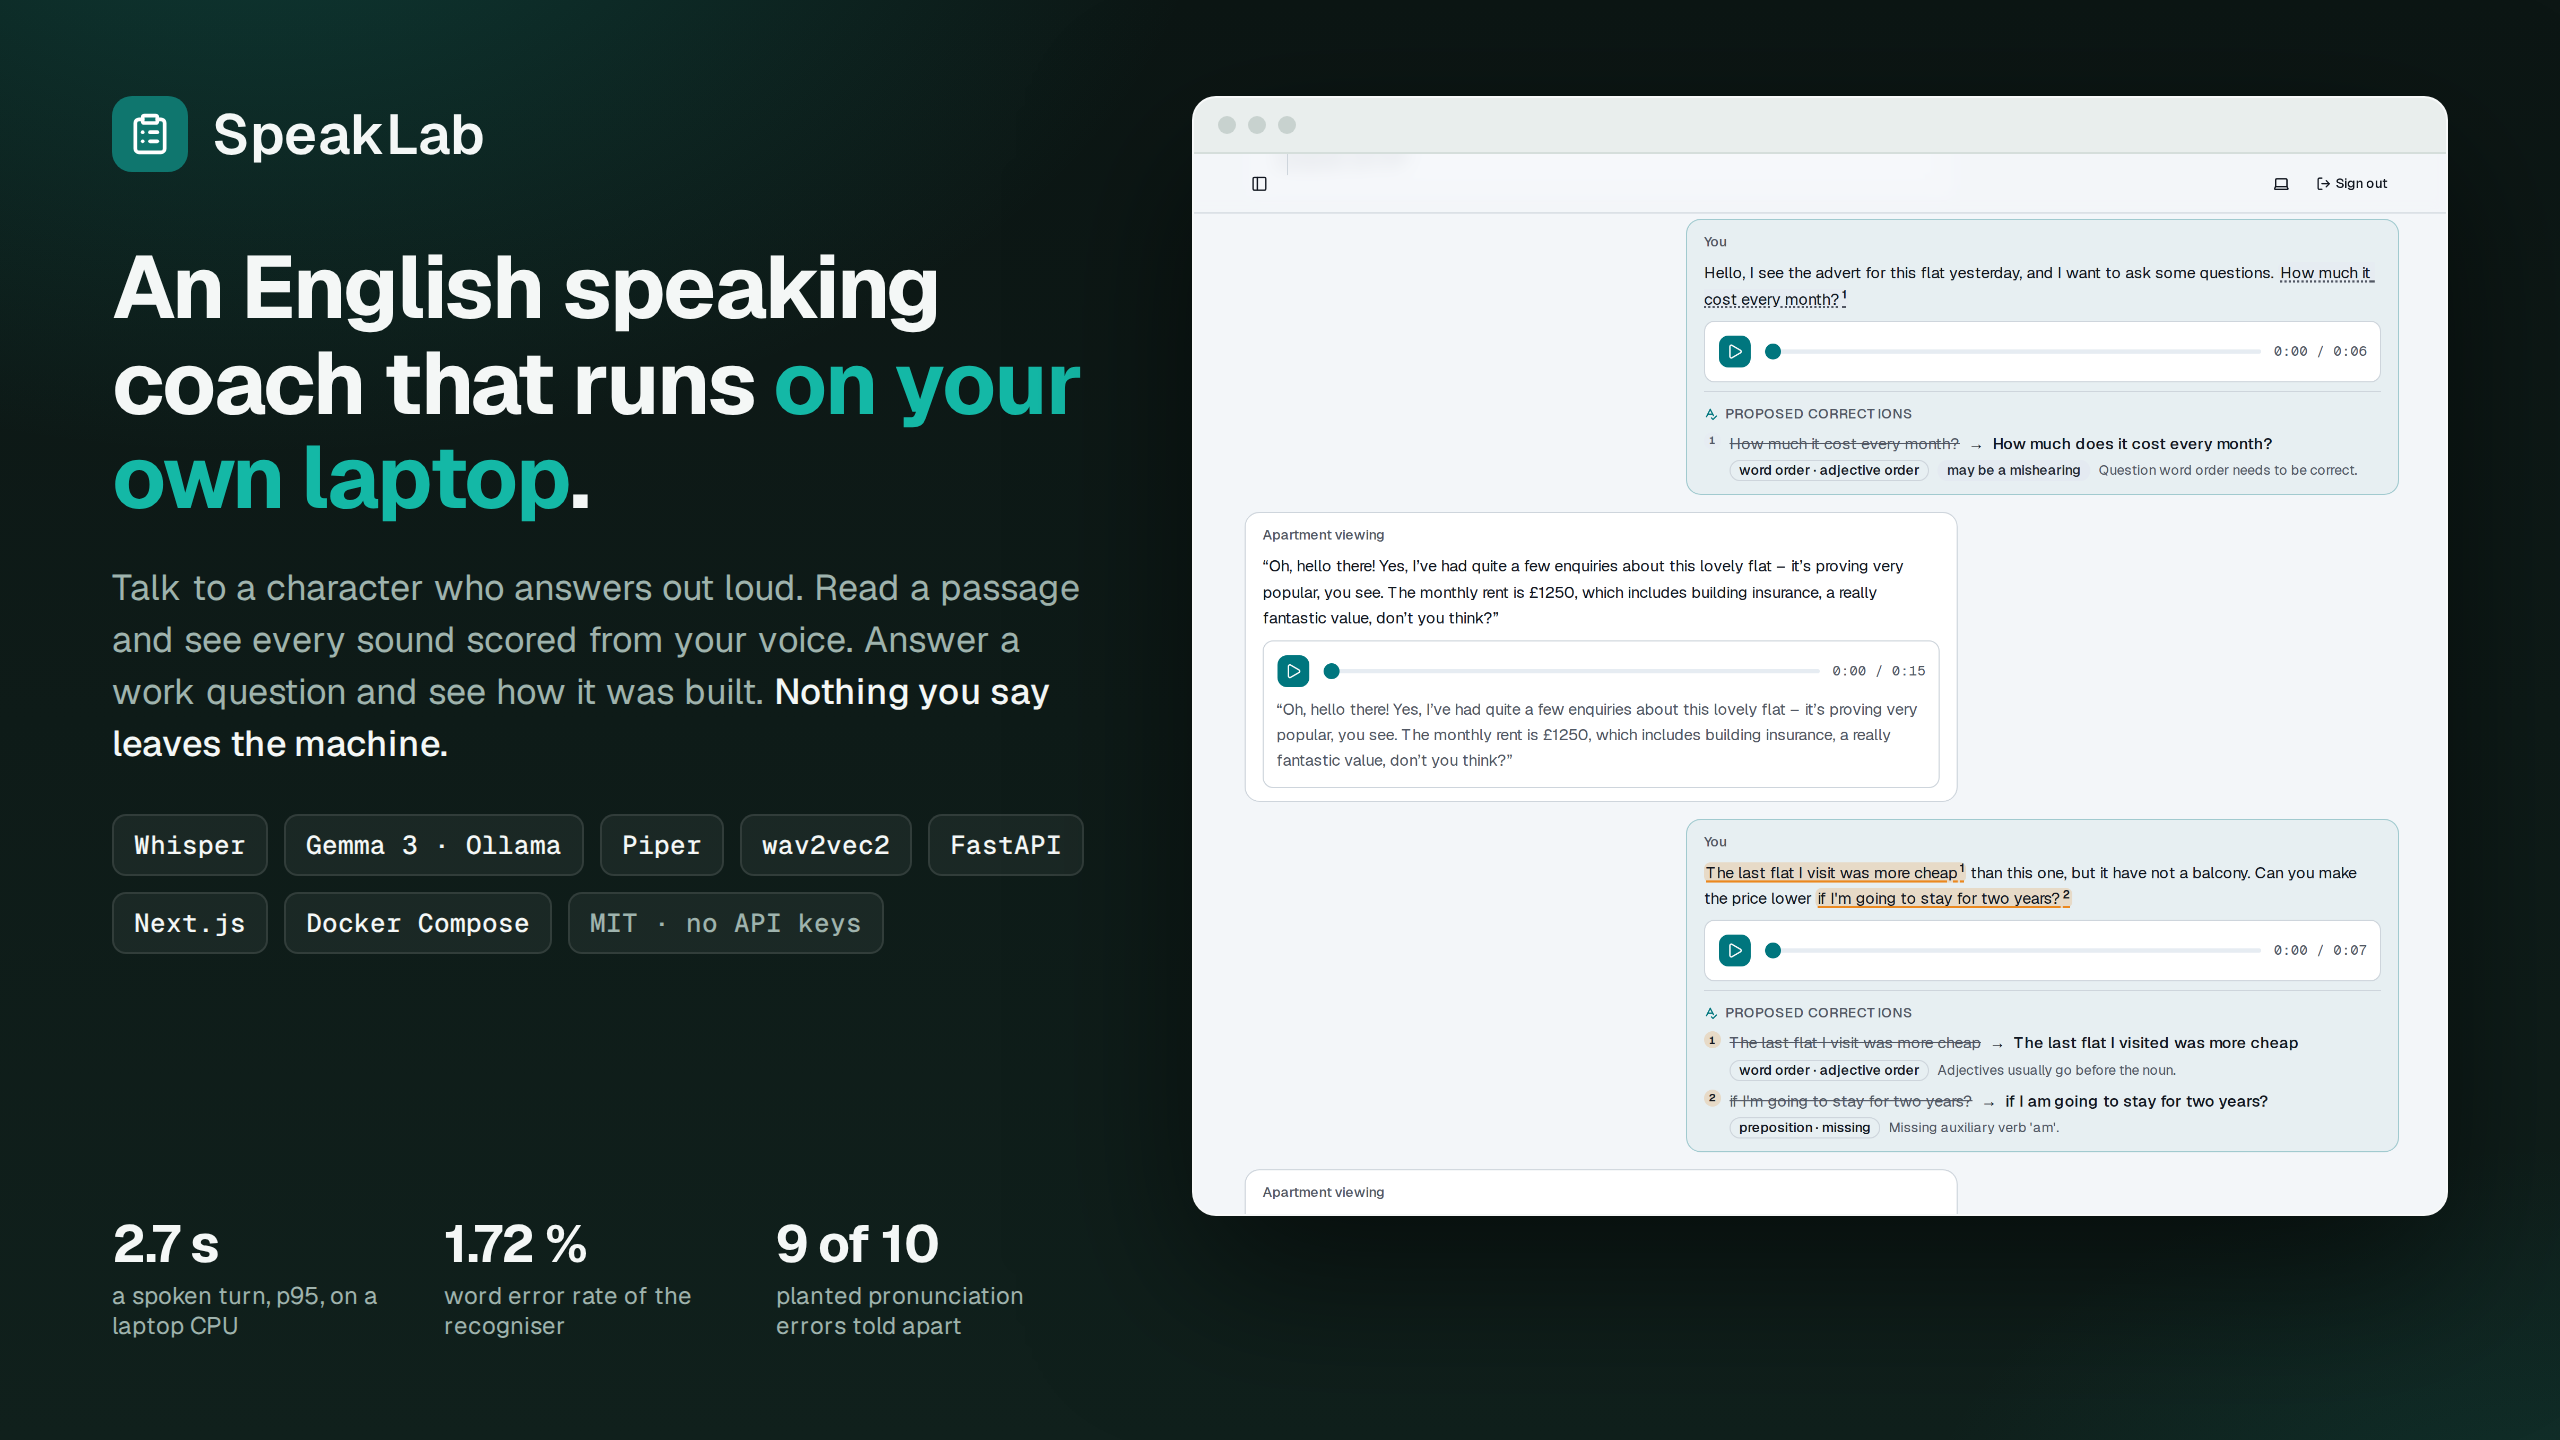
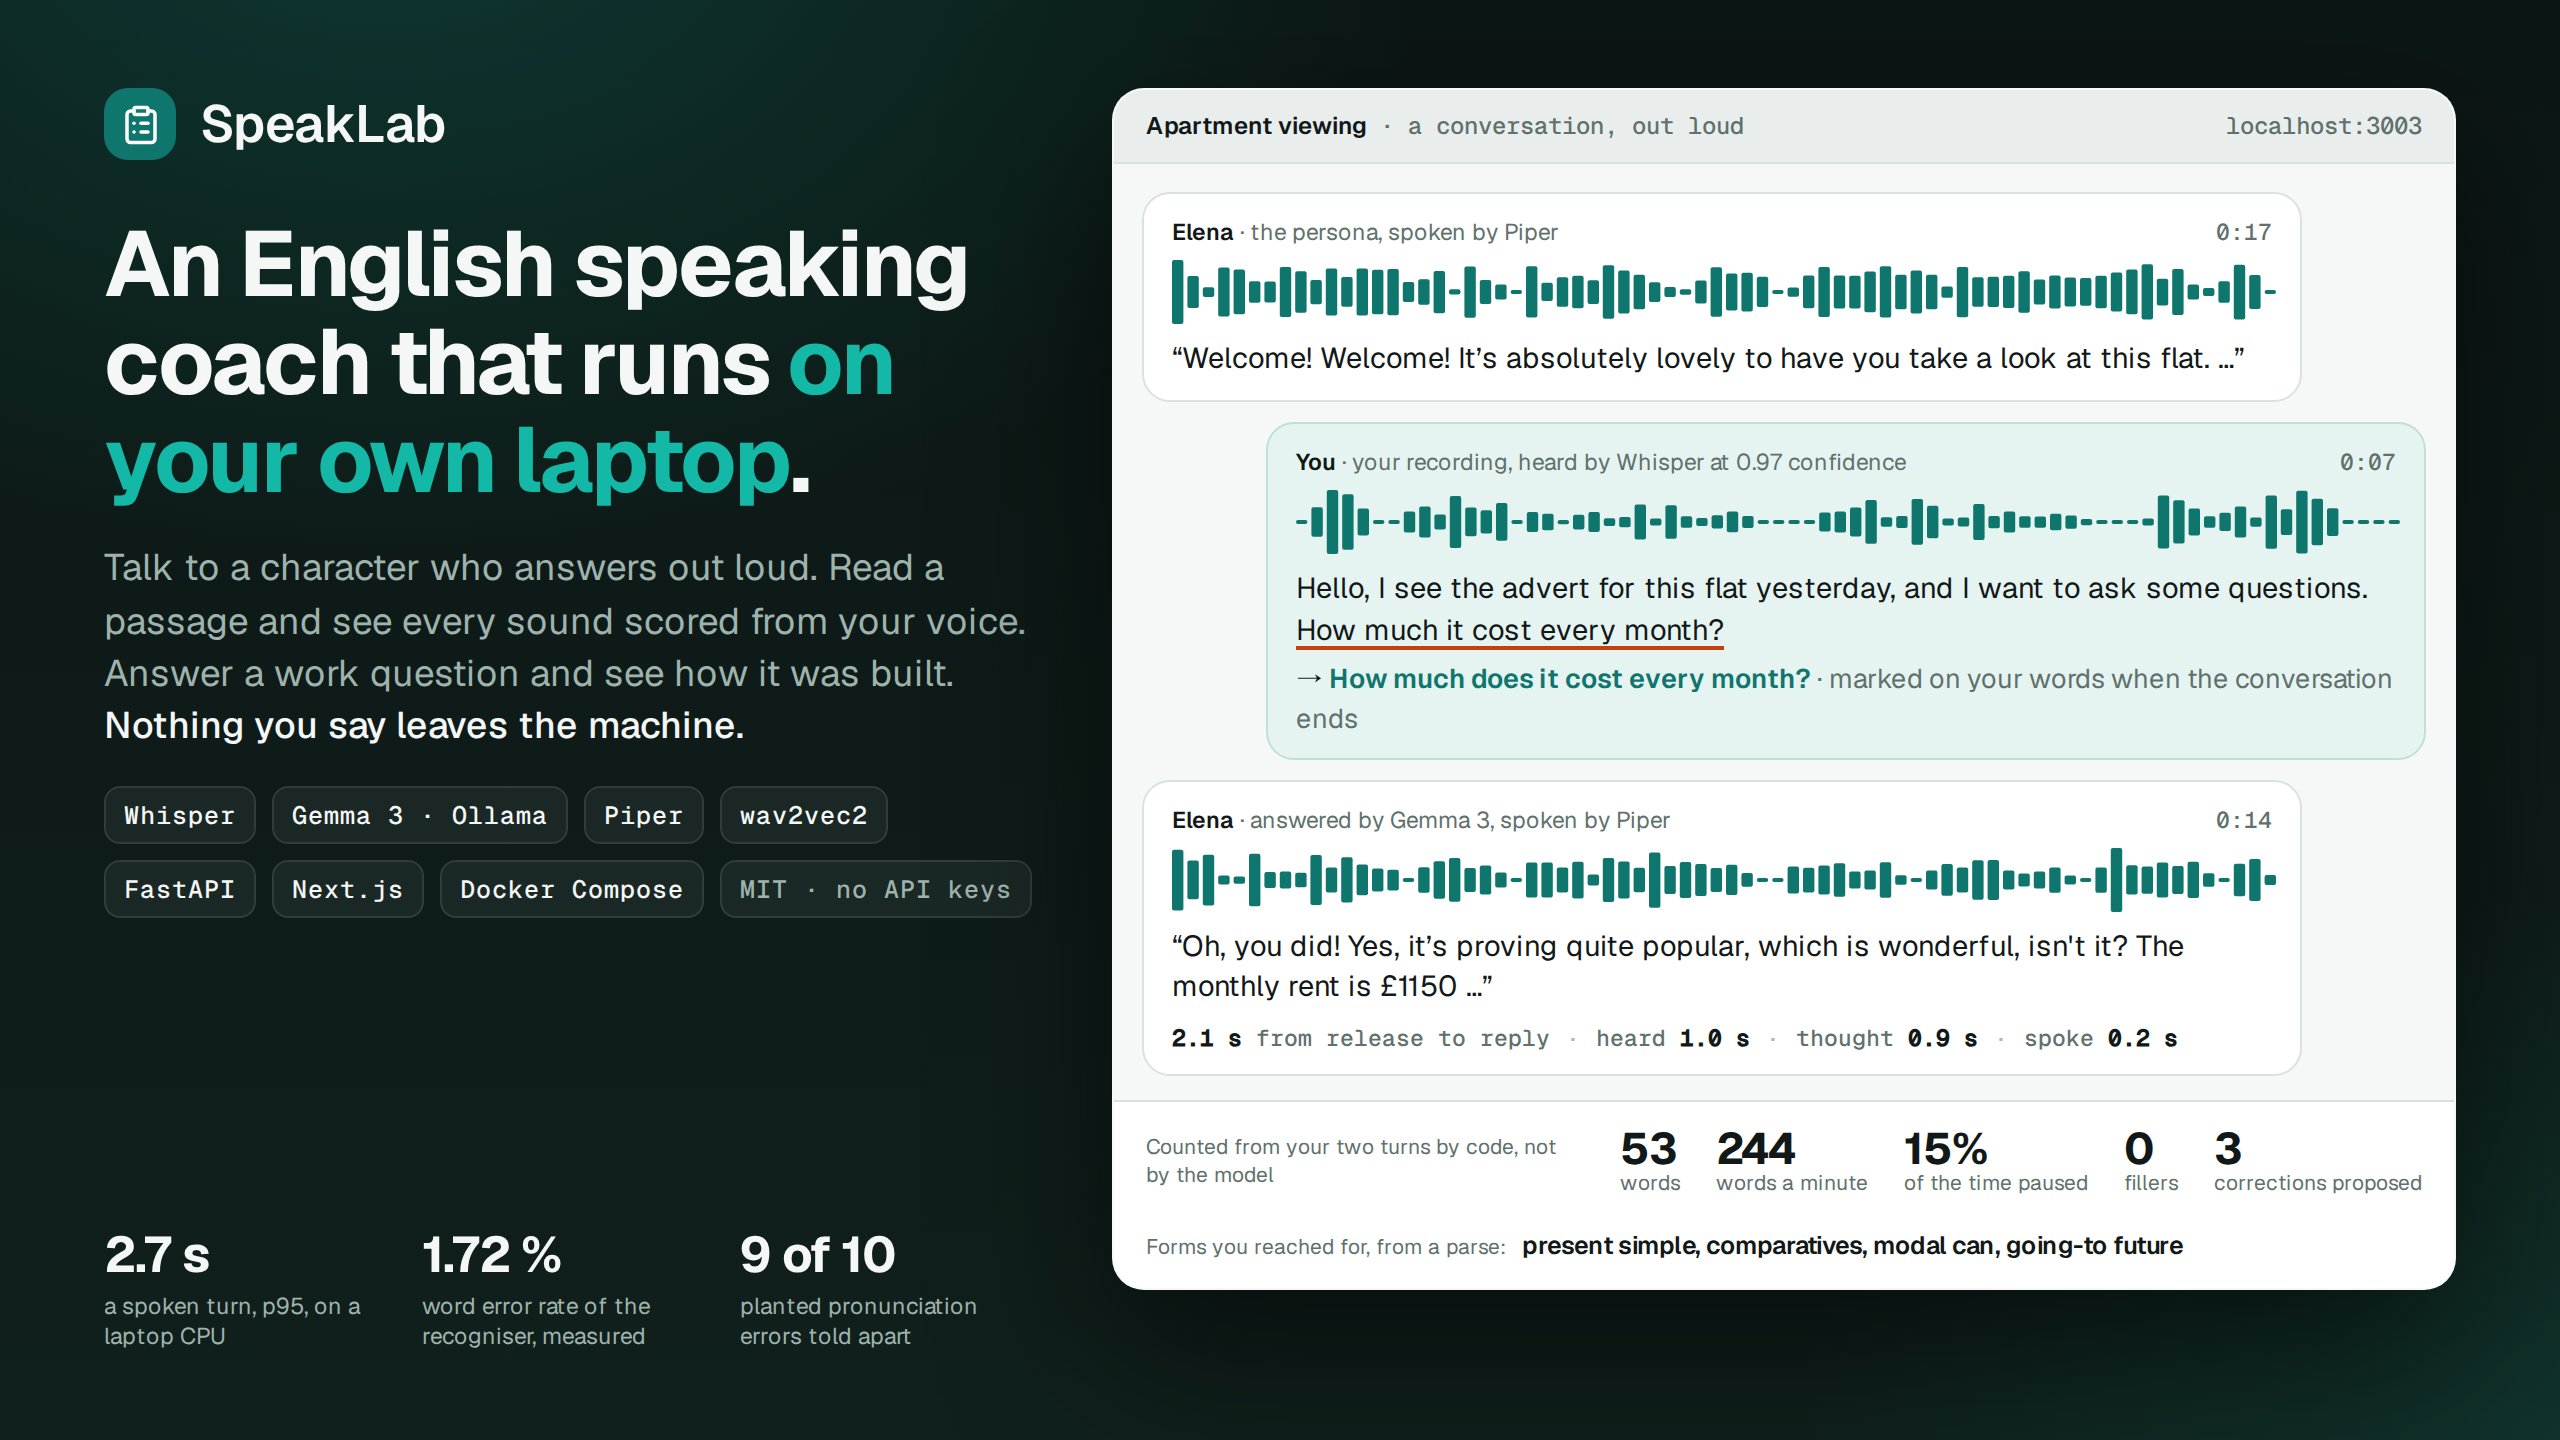
docs: open the README on the counted screens, one under each feature

diff --git a/README.md b/README.md
@@ -16,9 +16,9 @@
 
 </div>
 
-![SpeakLab: an English speaking coach that runs on your own laptop. A conversation after it has ended, each correction marked on the words it was about and listed under the turn, beside the stack it runs on](docs/cover.png)
+![SpeakLab: an English speaking coach that runs on your own laptop. One exchange from a conversation on the stack: the persona's spoken opening, the learner's turn as heard with its correction, the spoken reply with the turn's timings, and the counts underneath; beside it, the stack it runs on](docs/cover.png)
 
-<sub>The conversation screen on the running stack: the persona's turns are spoken by Piper, and each correction on the learner's turns is exactly as the language model proposed it. Two of the three carry the wrong category — *visit → visited* is not adjective order — which is why every correction is measured, and why detection stands at 0.500 precision, below its own bar.</sub>
+<sub>One exchange from a conversation run on this stack, rendered as a panel rather than screenshotted. The persona's opening line as Piper spoke it, the learner's turn as Whisper heard it with the correction the analysis proposed, the reply Gemma 3 wrote and Piper spoke, and the turn's timings — heard, thought, spoke. The waveforms are the recordings' own envelopes and the counts are the session report's. Every word and number is as the system produced it; only the layout is not the app's.</sub>
 
 Practise spoken English against models that run on your machine: a role-play with a persona who answers out loud, a passage read aloud and scored sound by sound, or a work question answered in one go.
 Everything that moves on a chart is counted by code from what you said — the speed, the verb forms you used, each correction on the words it was about, how an answer was built — and a language model explains the numbers without ever producing one.
@@ -32,18 +32,33 @@ Nothing leaves the machine, and every figure here is measured and names what pro
   viewing to a courier at your door. Hold to speak: Whisper writes it down, a local model
   answers in character, and Piper says the answer. When the conversation ends, each
   correction is marked on the words it was about.
+
+  ![A conversation in progress: the persona's spoken turn, the learner's turn with its recording, and the record button, with the last turn timed underneath — heard, thought, spoke](docs/screens/talk.png)
+
 - **Read a passage aloud and see it scored sound by sound.** Twelve passages, aligned
   against what you said and scored per phoneme — Goodness of Pronunciation, from an
   acoustic model that heard the waveform, not a language model reading a transcript.
+
+  ![A passage read aloud: what was heard, the word error rate against the passage, and the sounds worth practising — the sound the text asked for, the one that came out, how often, and the worst score](docs/screens/read.png)
+
 - **Answer a work question in one go — *Make your point*.** Thirteen prompts. The reasons,
   examples, steps, contrasts and summing up in your answer are counted and marked on your
   words, with a model's notes and a shorter version of your own answer beside the counts.
+
+  ![A spoken answer counted: words, words a minute, time paused and fillers, then reasons, examples, steps, contrasts and summings-up, each marked on the transcript](docs/screens/answer.png)
+
 - **See your grammar in your own sentences.** Every correction grouped by kind in the
   sentence you said it in; each verb form as a count — *right 9 of 13* — and never a
   percentage; any sentence said again and compared with what the recogniser heard.
+
+  ![The grammar page: a notice on what the corrections are worth, corrections by kind with the sentence they were in and a button to say it again, and the verb forms used with how often each was right](docs/screens/grammar.png)
+
 - **Follow progress that refuses to overclaim.** One row per week, a hole with a reason
   where a week had too little speech, pronunciation as a distance from your own recent
   readings, and recommendations that print the measurement that chose them.
+
+  ![The progress page: counts of conversations, turns, words, scored readings and sounds; what to practise next, ranked from stored corrections and the weakest sounds and marked as thin evidence; and the four families with nothing measured yet](docs/screens/progress.png)
+
 - **Keep your data.** Nothing leaves the machine, and your whole history exports as one
   JSON document.
 
